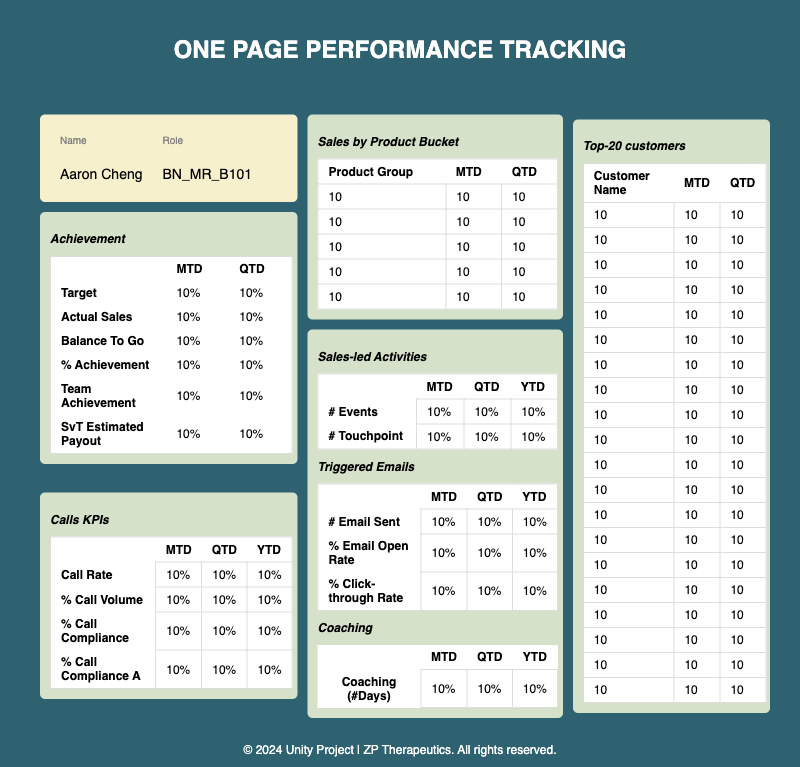
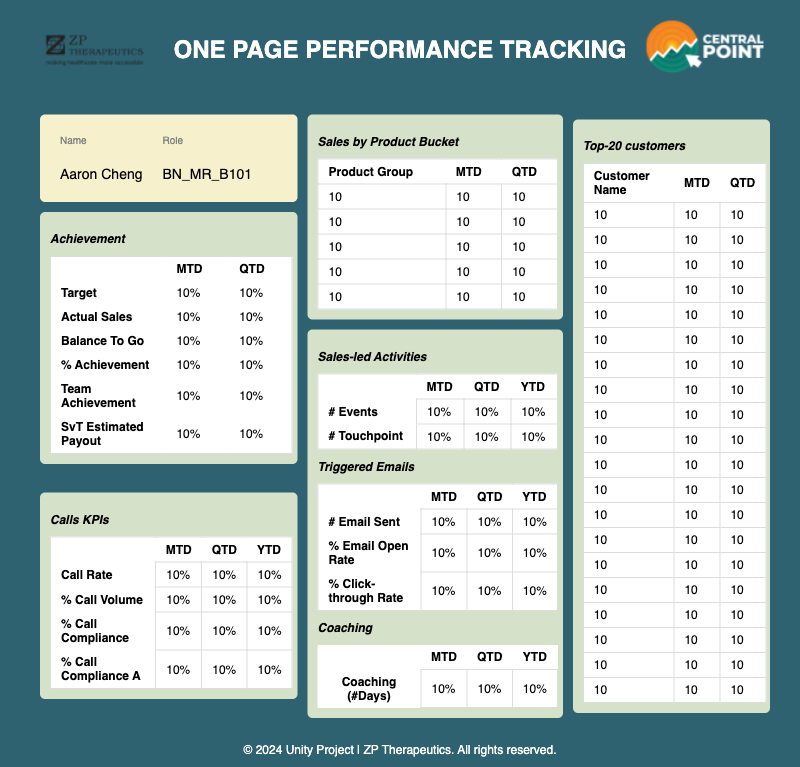
Gauge chart and HTML code separately

Changed region(s): [[0.8125, 0.03, 0.9688, 0.09], [0.0625, 0.03, 0.1875, 0.09]]

diff --git a/src/index.html b/src/index.html
@@ -1,0 +1,88 @@
+<!DOCTYPE html>
+<html lang="en">
+<head>
+    <meta charset="UTF-8">
+    <meta name="viewport" content="width=device-width, initial-scale=1.0">
+    <title>Gauge Charts</title>
+    <script src="https://cdn.jsdelivr.net/npm/chart.js"></script>
+    <style>
+        body {
+            display: flex;
+            justify-content: space-around;
+            align-items: center;
+            height: 100vh;
+            background-color: #d8e0cb;
+        }
+        .chart-container {
+            width: 200px;
+            height: 200px;
+        }
+    </style>
+</head>
+<body>
+    <div class="chart-container">
+        <canvas id="gaugeChartMTD"></canvas>
+    </div>
+    <div class="chart-container">
+        <canvas id="gaugeChartQTD"></canvas>
+    </div>
+
+    <script>
+      const mtdValue = 75.53
+      const qtdValue = 127.63
+        function getColor(value) {
+            if (value < 95) {
+                return '#ff6f6f'; // red
+            } else if (value < 100) {
+                return '#ffd700'; // yellow
+            } else {
+                return '#6fbf73'; // green
+            }
+        }
+
+        function createGaugeChart(ctx, value, max, text) {
+            const color = getColor(value);
+            const chart = new Chart(ctx, {
+                type: 'doughnut',
+                data: {
+                    datasets: [{
+                        data: [value, max - value],
+                        backgroundColor: [color, '#f5f5f5'],
+                        borderWidth: 0
+                    }]
+                },
+                options: {
+                    responsive: true,
+                    cutout: '80%',
+                    rotation: -90,
+                    circumference: 180,
+                    plugins: {
+                        tooltip: { enabled: false },
+                        legend: { display: false }
+                    }
+                },
+                plugins: [{
+                    id: 'textPlugin',
+                    afterDatasetsDraw: (chart, easing) => {
+                        const ctx = chart.ctx;
+                        ctx.save();
+                        const x = chart.chartArea.left + (chart.chartArea.right - chart.chartArea.left) / 2;
+                        const y = chart.chartArea.top + (chart.chartArea.bottom - chart.chartArea.top) / 1.4;
+                        ctx.font = '24px Arial';
+                        ctx.fillStyle = '#000';
+                        ctx.textAlign = 'center';
+                        ctx.fillText(text, x, y);
+                        ctx.restore();
+                    }
+                }]
+            });
+        }
+
+        const ctxMTD = document.getElementById('gaugeChartMTD').getContext('2d');
+        const ctxQTD = document.getElementById('gaugeChartQTD').getContext('2d');
+
+        createGaugeChart(ctxMTD, mtdValue, 100, mtdValue + '%');
+        createGaugeChart(ctxQTD, qtdValue, 100, qtdValue+ '%');
+    </script>
+</body>
+</html>

diff --git a/src/script.js b/src/script.js
@@ -1,0 +1,58 @@
+// Define the data ranges corresponding to colors
+var data = [80, 90, 100]; // Red for 1-80%, Yellow for 80-90%, Green for 90-100%
+var value = 85; // Initial value within the red range (1-80%)
+
+var config = {
+    type: 'gauge',
+    data: {
+        datasets: [{
+            data: data,
+            value: value,
+            backgroundColor: ['red', 'yellow', 'green'],
+            borderWidth: 2
+        }]
+    },
+    options: {
+        responsive: true,
+        title: {
+            display: true,
+            text: 'Gauge chart'
+        },
+        layout: {
+            padding: {
+                bottom: 30
+            }
+        },
+        needle: {
+            // Needle circle radius as the percentage of the chart area width
+            radiusPercentage: 2,
+            // Needle width as the percentage of the chart area width
+            widthPercentage: 3.2,
+            // Needle length as the percentage of the interval between inner radius (0%) and outer radius (100%) of the arc
+            lengthPercentage: 80,
+            // The color of the needle
+            color: 'rgba(0, 0, 0, 1)'
+        },
+        valueLabel: {
+            formatter: Math.round
+        }
+    }
+};
+
+window.onload = function() {
+    var ctx = document.getElementById('chart').getContext('2d');
+    window.myGauge = new Chart(ctx, config);
+};
+
+// Update button event listener to use parameterized data
+document.getElementById('updateData').addEventListener('click', function() {
+    var newData = [80, 90, 100]; // Keep the same ranges
+    var newValue = 85; // New value within the yellow range (80-90%)
+
+    config.data.datasets.forEach(function(dataset) {
+        dataset.data = newData;
+        dataset.value = newValue;
+    });
+
+    window.myGauge.update();
+});

diff --git a/src/email_template.html b/src/email_template.html
@@ -67,7 +67,11 @@
             padding: 10px 0;
             text-align: center;
             font-size: 24px;
-
+            display: flex;
+            flex-direction: row;
+            justify-content: center;
+            align-items: center;
+            gap: 20px;
         }
 
         .header>img {
@@ -150,9 +154,9 @@
 <body>
     <div class="container">
         <div class="header">
-            <!-- <img src="images/zpt.png" alt="zpt logo"> -->
+            <img src="images/zpt.png" alt="zpt logo">
             <h1>ONE PAGE PERFORMANCE TRACKING</h1>
-            <!-- <img src="images/central-point.png" alt="central-point logo"> -->
+            <img src="images/central-point.png" alt="central-point logo">
         </div>
         <div class="content">
             <table style="width:100%" class="master-table">

diff --git a/src/style.css b/src/style.css
@@ -1,0 +1,6 @@
+canvas {
+    -moz-user-select: none;
+    -webkit-user-select: none;
+    -ms-user-select: none;
+  }
+  
